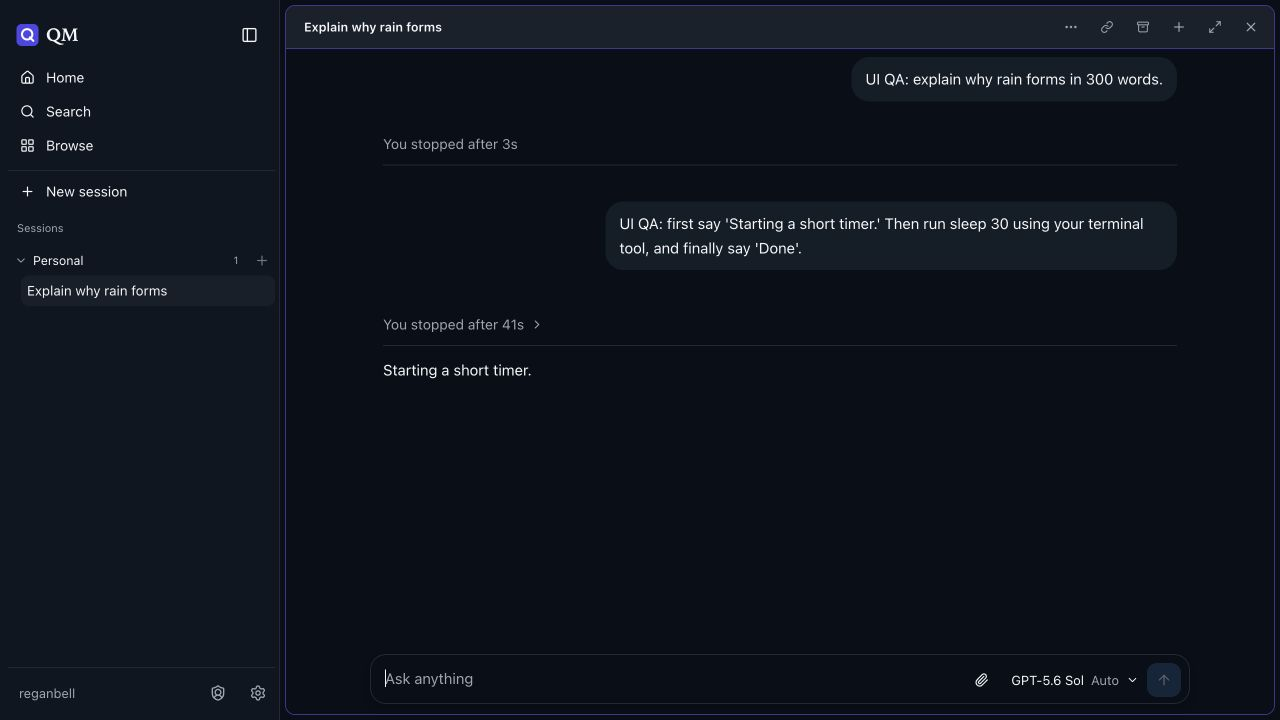
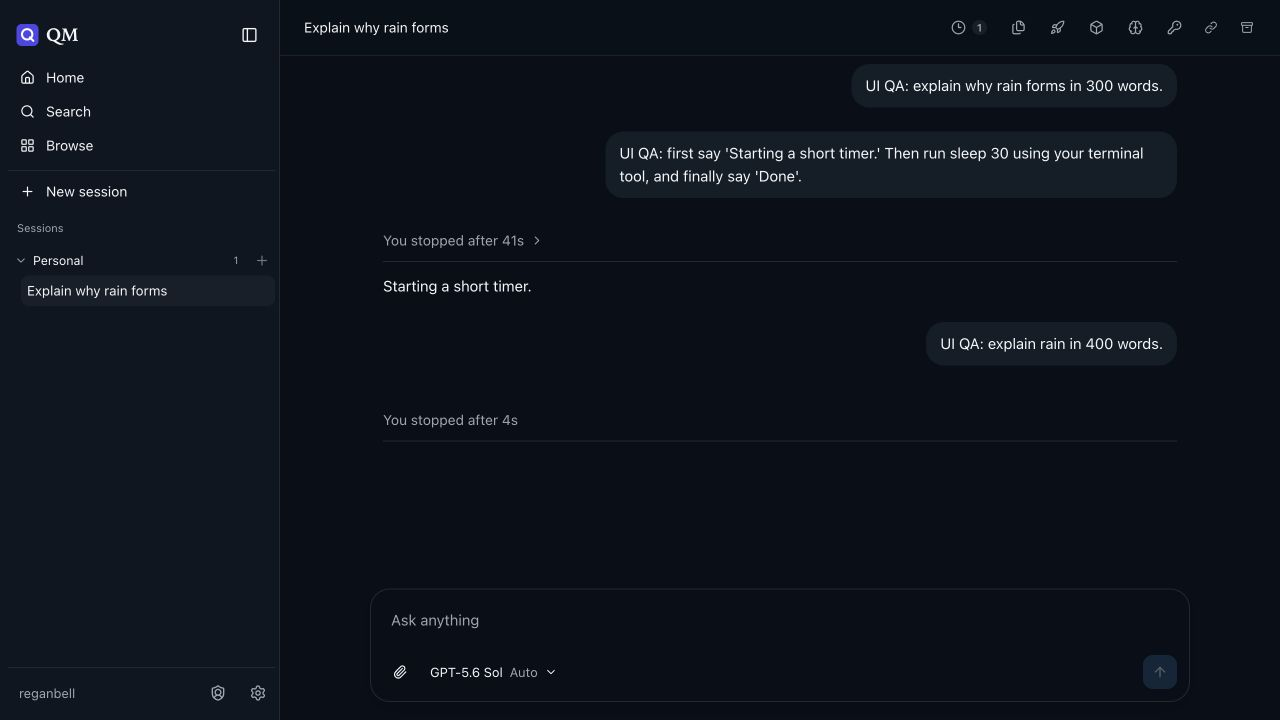
Keep posted replies visible through shared stopped work rendering

diff --git a/plugins/web-ui/src/chat.ts b/plugins/web-ui/src/chat.ts
@@ -1682,7 +1682,9 @@ export function createChatSurface(
             (msg as AssistantWork).streamingBaseline ?? "",
           )
         : nothing;
-      if (msg.stopReason === "aborted") workView = stoppedWork(work);
+      if (msg.stopReason === "aborted") {
+        workView = work ? workBlock(work, false, "", "", true) : html`<div class="stopped-head">You stopped</div>`;
+      }
       const deliveredFiles = (msg as AssistantWork).deliveredFiles;
       const hasVisibleContent =
         showWork ||
@@ -2353,19 +2355,13 @@ export function createChatSurface(
     return workedLabel(work.status === "working" ? "Working" : "Worked", secs);
   }
 
-  function stoppedWork(work: WorkBlock | null | undefined): TemplateResult {
-    const seconds = work ? workSeconds(work) : 0;
-    const label = work ? `You stopped after ${goalElapsedLabel(0, seconds * 1000)}` : "You stopped";
-    const timeline = work ? messageWorkTimeline(work, "") : [];
-    return work && timeline.length
-      ? html`<details class="stopped-work">
-          <summary class="stopped-head">${label}${icon(ChevronRight, 14)}</summary>
-          <div class="work-rows">${timeline.map((item) => renderTimelineItem(item, work))}</div>
-        </details>`
-      : html`<div class="stopped-head">${label}</div>`;
-  }
-
-  function workBlock(work: WorkBlock, isStreaming: boolean, text: string, baseline: string): TemplateResult {
+  function workBlock(
+    work: WorkBlock,
+    isStreaming: boolean,
+    text: string,
+    baseline: string,
+    stopped = false,
+  ): TemplateResult {
     const active =
       isStreaming &&
       currentTextPhase(work)?.phase !== "final_answer" &&
@@ -2379,12 +2375,18 @@ export function createChatSurface(
     });
     const tail = active ? streamingTextTail(text, work.activity) : "";
     const stopping = active && runSlot.stopGeneration === runSlot.generation;
-    const label = stopping ? "Stopping…" : workLabel(work);
-    const fold =
+    let label = stopping ? "Stopping…" : workLabel(work);
+    if (stopped) label = `You stopped after ${goalElapsedLabel(0, workSeconds(work) * 1000)}`;
+    let fold =
       timeline.length || tail.trim() || work.pendingApprovals?.length
-        ? html`<details class="work work-fold work-${work.status}" ?open=${active || !!work.pendingApprovals?.length}>
-            <summary class="work-head">${sheenLabel(label, active)}${icon(ChevronRight, 14)}</summary>
-            <div class="work-divider"></div>
+        ? html`<details
+            class=${stopped ? "stopped-work" : `work work-fold work-${work.status}`}
+            ?open=${active || !!work.pendingApprovals?.length}
+          >
+            <summary class=${stopped ? "stopped-head" : "work-head"}>
+              ${sheenLabel(label, active)}${icon(ChevronRight, 14)}
+            </summary>
+            ${stopped ? nothing : html`<div class="work-divider"></div>`}
             <div class="work-rows">
               ${repeat(
                 timeline,
@@ -2400,6 +2402,7 @@ export function createChatSurface(
             </div>
           </details>`
         : nothing;
+    if (stopped && fold === nothing) fold = html`<div class="stopped-head">${label}</div>`;
     return html`${fold}${replies.map((reply) => html`<div class="streaming-text" dir="auto">${markdown(reply)}</div>`)}`;
   }
 
